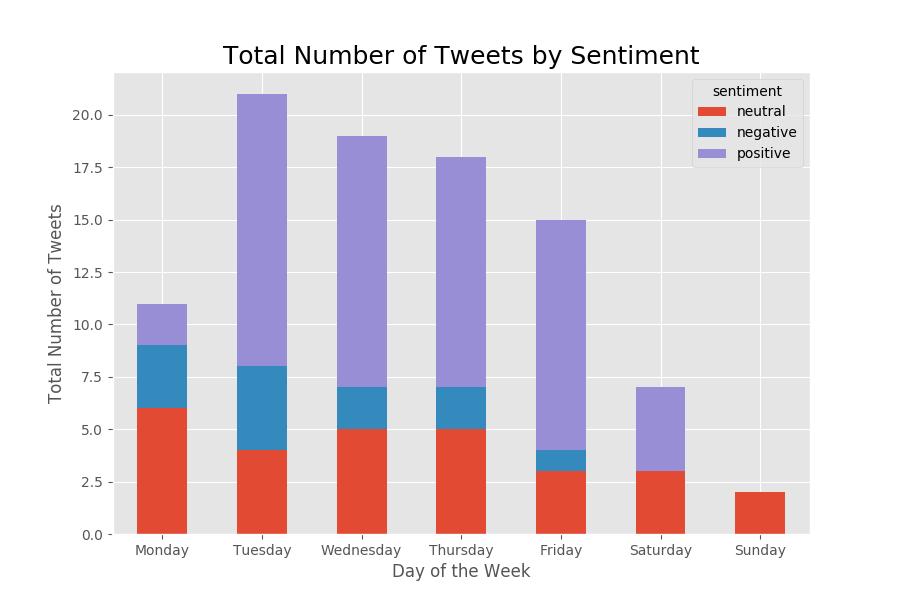
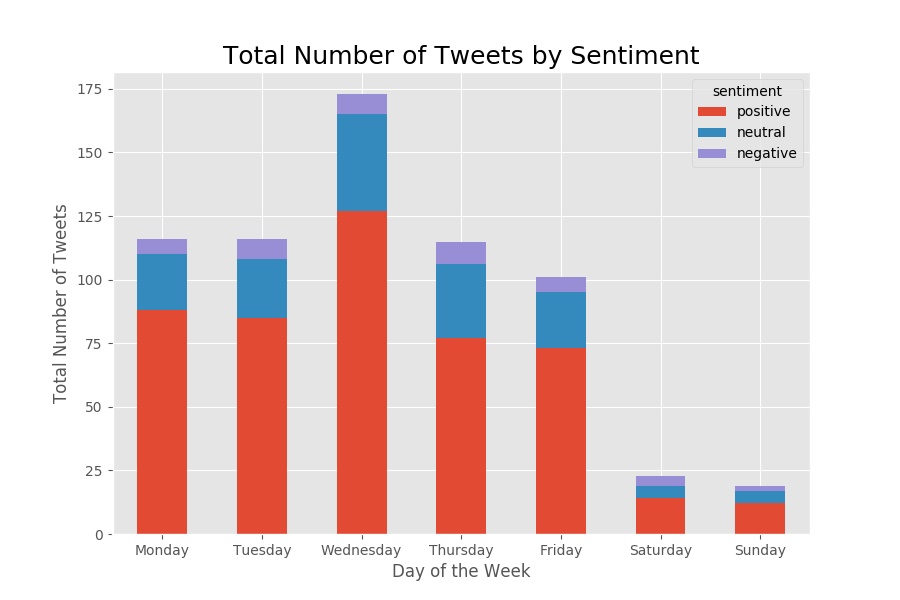
Fixed order of colours + made it sentiment avg per month

diff --git a/SentimentAnalysis.py b/SentimentAnalysis.py
@@ -54,6 +54,8 @@ def get_sentiment_by_day(df):
     df = df.drop(['week_index','text'],axis=1)
     grouped = df.groupby(['sentiment','day_of_week'], sort=False)['day_of_week'].count().unstack('sentiment').fillna(0)
 
+    grouped = grouped.reindex(columns=['positive','neutral','negative'])
+
     return grouped
 
 def get_sentiment_by_month(df):
@@ -63,9 +65,19 @@ def get_sentiment_by_month(df):
 
     df['by_month'] = df['month_index'].apply(lambda x: calendar.month_abbr[x])
     df.sort_values('month_index', inplace=True)
+    df['num_days'] = df['tweet_date'].apply(lambda x: calendar.monthrange(x.year,x.month)[1])
+
     df = df.drop(['month_index','text'],axis=1)
 
-    grouped = df.groupby(['sentiment','by_month'], sort=False)['by_month'].count().unstack('sentiment').fillna(0)
+    grouped = df.groupby(['sentiment','by_month','num_days'], sort=False)['by_month'].count().unstack('sentiment').fillna(0)
+    sentiments = ['positive','neutral','negative']
+    grouped = grouped.reindex(columns=sentiments)
+
+    num_days = grouped.index.get_level_values('num_days')
+    i = 0
+    for s in sentiments:
+        grouped[s] = grouped.apply(lambda x: x[s] / num_days[i], axis=1)
+        i = i + 1
 
     return grouped
 
@@ -82,6 +94,10 @@ def plot_sentiment_numbers(source,df):
 
         vals = counts.values()
         sentiments = counts.keys()
+
+        order = ["positive","neutral","negative"]
+        d = {k:v for v,k in enumerate(order)}
+        sentiments.sort(key=d.get)
 
         fig = plt.figure(figsize=(6,6))
 
@@ -122,10 +138,12 @@ def plot_num_per_month(source,df):
         # total = len(grouped.axes[0])
 
         fig = grouped.plot.line(figsize=(9,6), title='Number of Tweets by Sentiment')
-        fig.set_xlabel("Month")
-        fig.set_ylabel("Total Number of Tweets")
+        plt.xticks(np.arange(12), calendar.month_abbr[1:13])
 
-        plt.title('Total Number of Tweets by Sentiment', fontsize=18)
+        fig.set_xlabel("Month")
+        fig.set_ylabel("Average Number of Tweets (per day)")
+
+        plt.title('Average Number of Tweets by Sentiment', fontsize=18)
         plt.savefig('plots/' + source + '_sentiment_by_month')
 
         plt.tight_layout()

diff --git a/WordFrequency.py b/WordFrequency.py
@@ -78,7 +78,7 @@ def plot_word_counts(source,df):
     if not df.empty:
         allCounts = get_most_popular_words(df)
 
-        allCounts.plot.bar(rot=0, figsize=(12,6), width=0.8)
+        fig = allCounts.plot.bar(rot=0, figsize=(12,6), width=0.8)
 
         plt.title('Most Frequent Words', fontsize=18)
         plt.savefig('plots/' + source + '_mostFrequentWords')
@@ -104,22 +104,23 @@ def plot_keywords(source,df):
 
 users = ['ShawHelp','ShawInfo']
 
-def sentiment_analysis():
-    # for user in users:
-    #     tweets =  pd.read_csv('datasets/' + user + '_tweets.csv', names=['tweet_date', 'text'],encoding='utf-8',na_values="NaN")
-    #     tweets = tweets[pd.notnull(tweets['text'])]
-    #
-    #     plot_word_counts(user,tweets)
-    #
-    # tweets =  pd.read_csv('datasets/' + users[0] + '_hashtags.csv', names=['tweet_date', 'text'],encoding='utf-8')
-    # tweets = tweets[pd.notnull(tweets['text'])]
-    #
-    # plot_word_counts("hastag_shawInternet",tweets)
+def word_frequency():
+    for user in users:
+        tweets =  pd.read_csv('datasets/' + user + '_tweets.csv', names=['tweet_date', 'text'],encoding='utf-8',na_values="NaN")
+        tweets = tweets[pd.notnull(tweets['text'])]
 
+        plot_word_counts(user,tweets)
+
+    tweets =  pd.read_csv('datasets/' + users[0] + '_hashtags.csv', names=['tweet_date', 'text'],encoding='utf-8')
+    tweets = tweets[pd.notnull(tweets['text'])]
+
+    plot_keywords("hastag_shawInternet",tweets)
+    plot_word_counts("hastag_shawInternet",tweets)
+    #
     tweets =  pd.read_csv('datasets/atShawHelp.csv', names=['tweet_date', 'text'],encoding='utf-8')
     tweets = tweets[pd.notnull(tweets['text'])]
 
     plot_keywords("atShawHelp",tweets)
-    # plot_word_counts("atShawHelp",tweets)
+    plot_word_counts("atShawHelp",tweets)
 
-sentiment_analysis()
+word_frequency()
